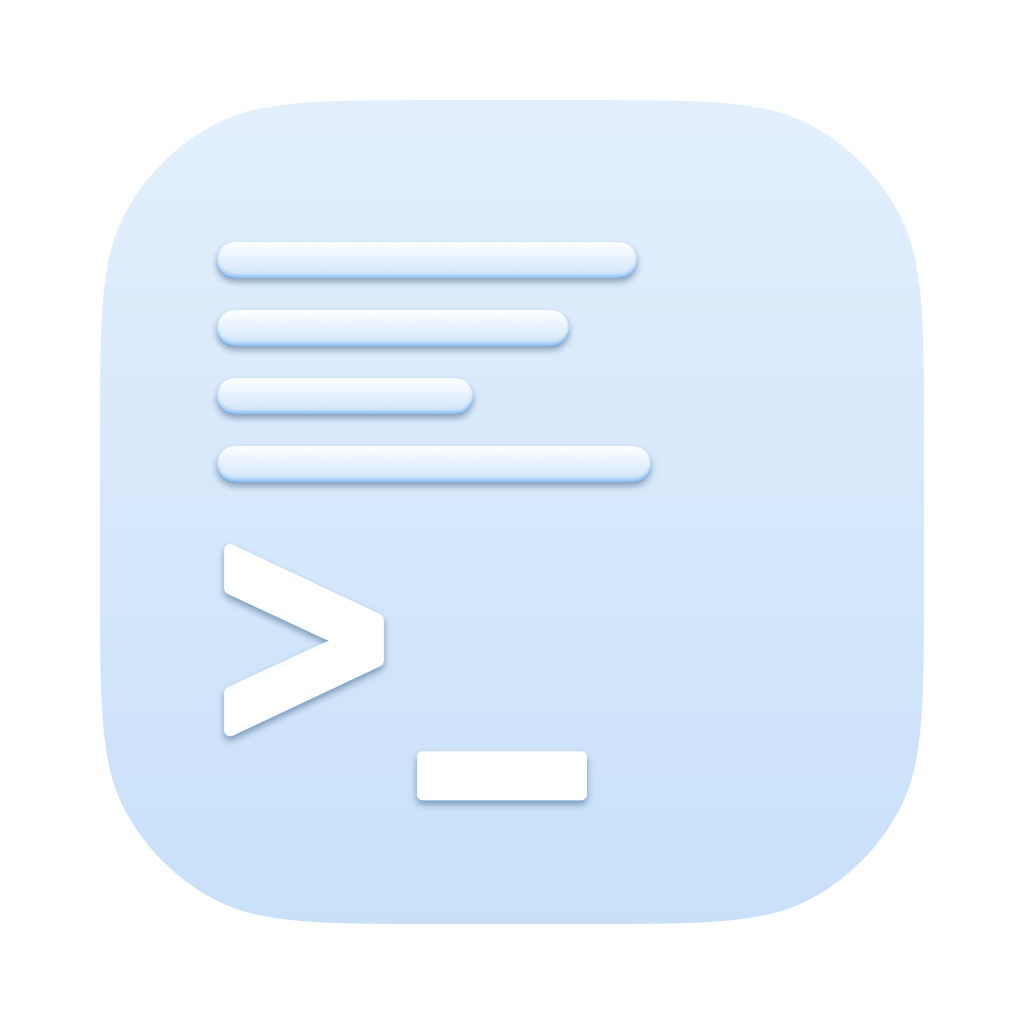
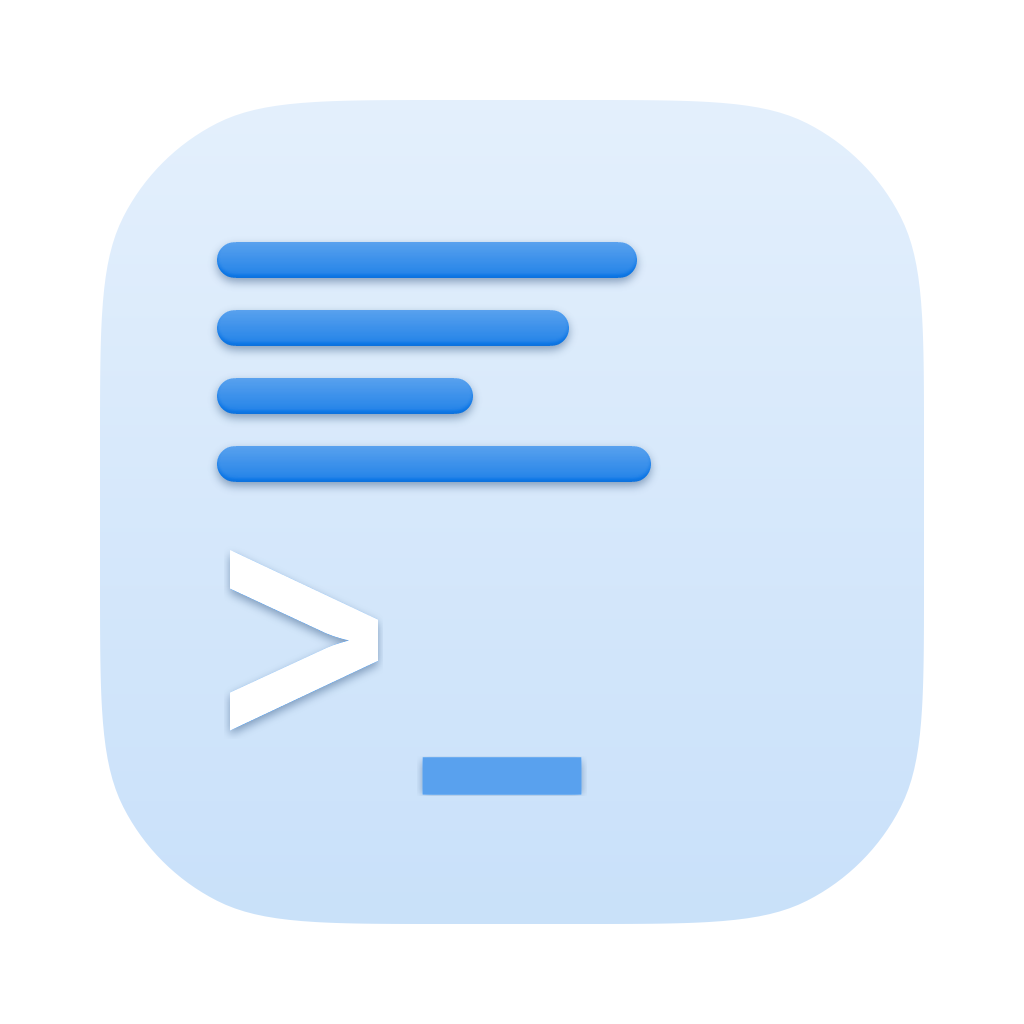
Terminal: JetBrains Mono prompt without border, grey cursor and lines
Foreground layers re-exported from the Apps Kit artboards (Terminal and
Terminal Dark): the > prompt in JetBrains Mono Bold, the _ cursor in grey,
grey gradient output lines. Text is outlined to paths. Default and Dark
renders come from the Sketch artboards; Clear and Tinted renders and the
preview are regenerated from the new layers.

Claude-Session: https://claude.ai/code/session_01GB9g5RYT3FbJVoy9kfJvbm

diff --git a/ASSETS.md b/ASSETS.md
@@ -91,11 +91,11 @@ for third-party assets: CC0, CC-BY, CC BY-SA, OFL, MIT/Apache.
 | `apps/silica/foreground-dark.svg` | Silica project | Silica trademark, all rights reserved ([silica-brand TRADEMARKS.md](https://github.com/silica-os/silica-brand/blob/main/TRADEMARKS.md)) | original, from `silica-brand` (`exports/app-icon/`, generated by `tools/build.py`) |
 | `apps/silica/foreground.svg` | Silica project | Silica trademark, all rights reserved ([silica-brand TRADEMARKS.md](https://github.com/silica-os/silica-brand/blob/main/TRADEMARKS.md)) | original, from `silica-brand` (`exports/app-icon/`, generated by `tools/build.py`) |
 | `apps/silica/preview.png` | Silica project | Silica trademark, all rights reserved ([silica-brand TRADEMARKS.md](https://github.com/silica-os/silica-brand/blob/main/TRADEMARKS.md)) | original, from `silica-brand` (`exports/app-icon/`, generated by `tools/build.py`) |
-| `apps/terminal/background-dark.svg` | Silica project | CC BY-SA 4.0 | original, drawn in the Silica 1.0 Amalfi Apps Kit (Sketch), 2026-10-16 |
-| `apps/terminal/background.svg` | Silica project | CC BY-SA 4.0 | original, drawn in the Silica 1.0 Amalfi Apps Kit (Sketch), 2026-10-16 |
-| `apps/terminal/foreground-dark.svg` | Silica project | CC BY-SA 4.0 | original, drawn in the Silica 1.0 Amalfi Apps Kit (Sketch), 2026-10-16 |
-| `apps/terminal/foreground.svg` | Silica project | CC BY-SA 4.0 | original, drawn in the Silica 1.0 Amalfi Apps Kit (Sketch), 2026-10-16 |
-| `apps/terminal/preview.png` | Silica project | CC BY-SA 4.0 | original, drawn in the Silica 1.0 Amalfi Apps Kit (Sketch), 2026-10-16 |
+| `apps/terminal/background-dark.svg` | Silica project | CC BY-SA 4.0 | original, drawn in the Silica 1.0 Amalfi Apps Kit (Sketch), 2026-10-17 |
+| `apps/terminal/background.svg` | Silica project | CC BY-SA 4.0 | original, drawn in the Silica 1.0 Amalfi Apps Kit (Sketch), 2026-10-17 |
+| `apps/terminal/foreground-dark.svg` | Silica project | CC BY-SA 4.0 | original, drawn in the Silica 1.0 Amalfi Apps Kit (Sketch), 2026-10-17 |
+| `apps/terminal/foreground.svg` | Silica project | CC BY-SA 4.0 | original, drawn in the Silica 1.0 Amalfi Apps Kit (Sketch), 2026-10-17 |
+| `apps/terminal/preview.png` | Silica project | CC BY-SA 4.0 | original, drawn in the Silica 1.0 Amalfi Apps Kit (Sketch), 2026-10-17 |
 | `apps/text-editor/background-dark.svg` | Silica project | CC BY-SA 4.0 | original, drawn in the Silica 1.0 Amalfi Apps Kit (Sketch), 2026-10-16 |
 | `apps/text-editor/background.svg` | Silica project | CC BY-SA 4.0 | original, drawn in the Silica 1.0 Amalfi Apps Kit (Sketch), 2026-10-16 |
 | `apps/text-editor/foreground-dark.svg` | Silica project | CC BY-SA 4.0 | original, drawn in the Silica 1.0 Amalfi Apps Kit (Sketch), 2026-10-16 |
@@ -143,8 +143,8 @@ for third-party assets: CC0, CC-BY, CC BY-SA, OFL, MIT/Apache.
 | `apps/screenshot/icon.png` | Silica project | CC BY-SA 4.0 | original, drawn in the Silica 1.0 Amalfi Apps Kit (Sketch), 2026-10-16 |
 | `apps/settings/icon-dark.png` | Silica project | CC BY-SA 4.0 | original, drawn in the Silica 1.0 Amalfi Apps Kit (Sketch), 2026-10-16 |
 | `apps/settings/icon.png` | Silica project | CC BY-SA 4.0 | original, drawn in the Silica 1.0 Amalfi Apps Kit (Sketch), 2026-10-16 |
-| `apps/terminal/icon-dark.png` | Silica project | CC BY-SA 4.0 | original, drawn in the Silica 1.0 Amalfi Apps Kit (Sketch), 2026-10-16 |
-| `apps/terminal/icon.png` | Silica project | CC BY-SA 4.0 | original, drawn in the Silica 1.0 Amalfi Apps Kit (Sketch), 2026-10-16 |
+| `apps/terminal/icon-dark.png` | Silica project | CC BY-SA 4.0 | original, drawn in the Silica 1.0 Amalfi Apps Kit (Sketch), 2026-10-17 |
+| `apps/terminal/icon.png` | Silica project | CC BY-SA 4.0 | original, drawn in the Silica 1.0 Amalfi Apps Kit (Sketch), 2026-10-17 |
 | `apps/text-editor/icon-dark.png` | Silica project | CC BY-SA 4.0 | original, drawn in the Silica 1.0 Amalfi Apps Kit (Sketch), 2026-10-16 |
 | `apps/text-editor/icon.png` | Silica project | CC BY-SA 4.0 | original, drawn in the Silica 1.0 Amalfi Apps Kit (Sketch), 2026-10-16 |
 | `apps/apps/icon-clear-dark.png` | Silica project | CC BY-SA 4.0 | original, drawn in the Silica 1.0 Amalfi Apps Kit (Sketch), 2026-10-16; clear and tinted renders generated from the foreground |
@@ -211,10 +211,10 @@ for third-party assets: CC0, CC-BY, CC BY-SA, OFL, MIT/Apache.
 | `apps/settings/icon-clear.png` | Silica project | CC BY-SA 4.0 | original, drawn in the Silica 1.0 Amalfi Apps Kit (Sketch), 2026-10-16; clear and tinted renders generated from the foreground |
 | `apps/settings/icon-tinted-dark.png` | Silica project | CC BY-SA 4.0 | original, drawn in the Silica 1.0 Amalfi Apps Kit (Sketch), 2026-10-16; clear and tinted renders generated from the foreground |
 | `apps/settings/icon-tinted.png` | Silica project | CC BY-SA 4.0 | original, drawn in the Silica 1.0 Amalfi Apps Kit (Sketch), 2026-10-16; clear and tinted renders generated from the foreground |
-| `apps/terminal/icon-clear-dark.png` | Silica project | CC BY-SA 4.0 | original, drawn in the Silica 1.0 Amalfi Apps Kit (Sketch), 2026-10-16; clear and tinted renders generated from the foreground |
-| `apps/terminal/icon-clear.png` | Silica project | CC BY-SA 4.0 | original, drawn in the Silica 1.0 Amalfi Apps Kit (Sketch), 2026-10-16; clear and tinted renders generated from the foreground |
-| `apps/terminal/icon-tinted-dark.png` | Silica project | CC BY-SA 4.0 | original, drawn in the Silica 1.0 Amalfi Apps Kit (Sketch), 2026-10-16; clear and tinted renders generated from the foreground |
-| `apps/terminal/icon-tinted.png` | Silica project | CC BY-SA 4.0 | original, drawn in the Silica 1.0 Amalfi Apps Kit (Sketch), 2026-10-16; clear and tinted renders generated from the foreground |
+| `apps/terminal/icon-clear-dark.png` | Silica project | CC BY-SA 4.0 | original, drawn in the Silica 1.0 Amalfi Apps Kit (Sketch), 2026-10-17; clear and tinted renders generated from the foreground |
+| `apps/terminal/icon-clear.png` | Silica project | CC BY-SA 4.0 | original, drawn in the Silica 1.0 Amalfi Apps Kit (Sketch), 2026-10-17; clear and tinted renders generated from the foreground |
+| `apps/terminal/icon-tinted-dark.png` | Silica project | CC BY-SA 4.0 | original, drawn in the Silica 1.0 Amalfi Apps Kit (Sketch), 2026-10-17; clear and tinted renders generated from the foreground |
+| `apps/terminal/icon-tinted.png` | Silica project | CC BY-SA 4.0 | original, drawn in the Silica 1.0 Amalfi Apps Kit (Sketch), 2026-10-17; clear and tinted renders generated from the foreground |
 | `apps/text-editor/icon-clear-dark.png` | Silica project | CC BY-SA 4.0 | original, drawn in the Silica 1.0 Amalfi Apps Kit (Sketch), 2026-10-16; clear and tinted renders generated from the foreground |
 | `apps/text-editor/icon-clear.png` | Silica project | CC BY-SA 4.0 | original, drawn in the Silica 1.0 Amalfi Apps Kit (Sketch), 2026-10-16; clear and tinted renders generated from the foreground |
 | `apps/text-editor/icon-tinted-dark.png` | Silica project | CC BY-SA 4.0 | original, drawn in the Silica 1.0 Amalfi Apps Kit (Sketch), 2026-10-16; clear and tinted renders generated from the foreground |
